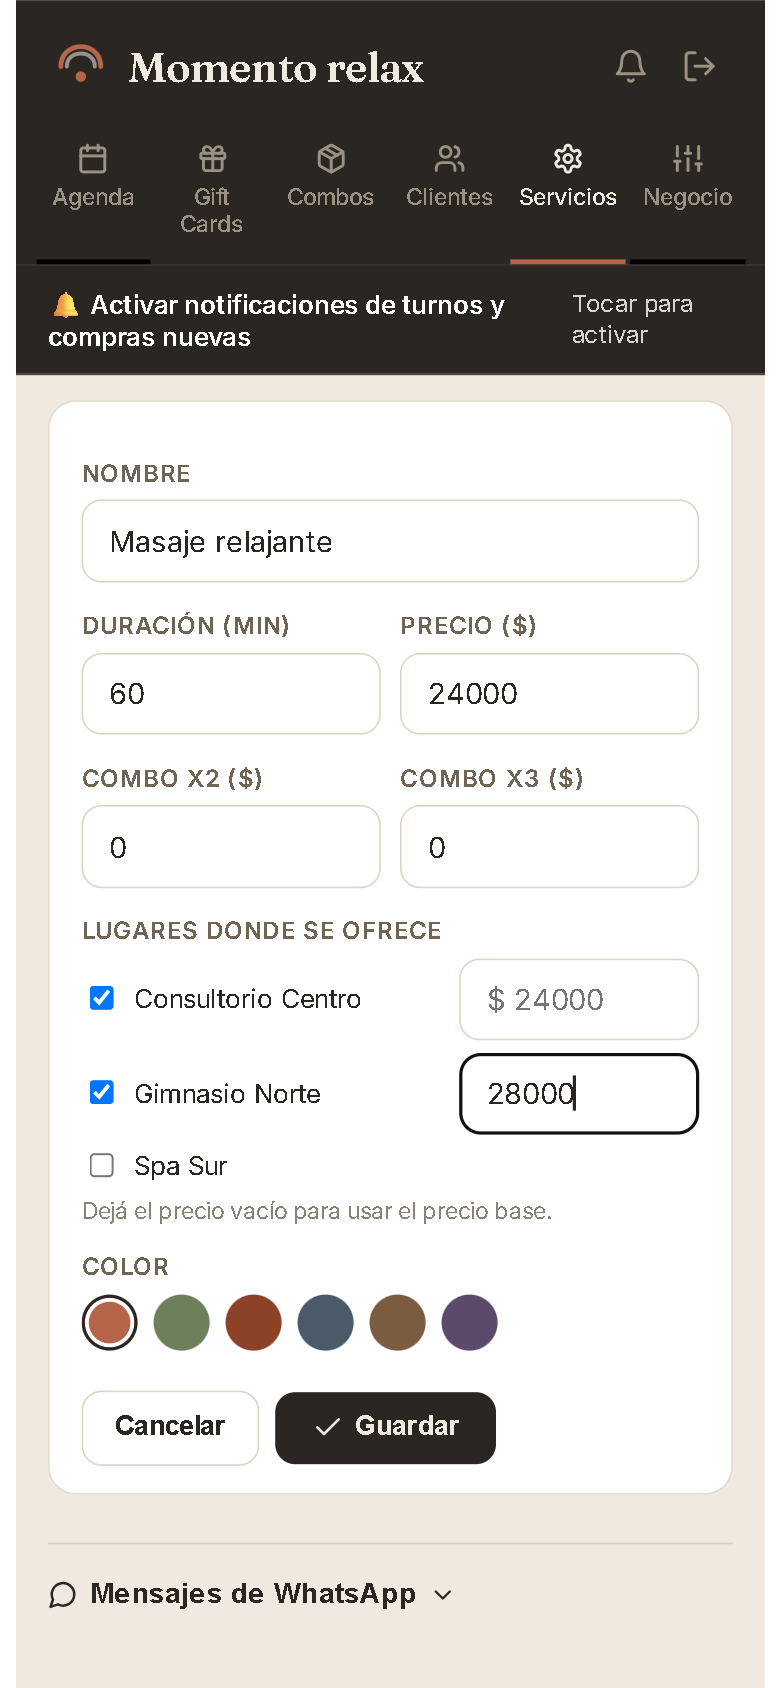
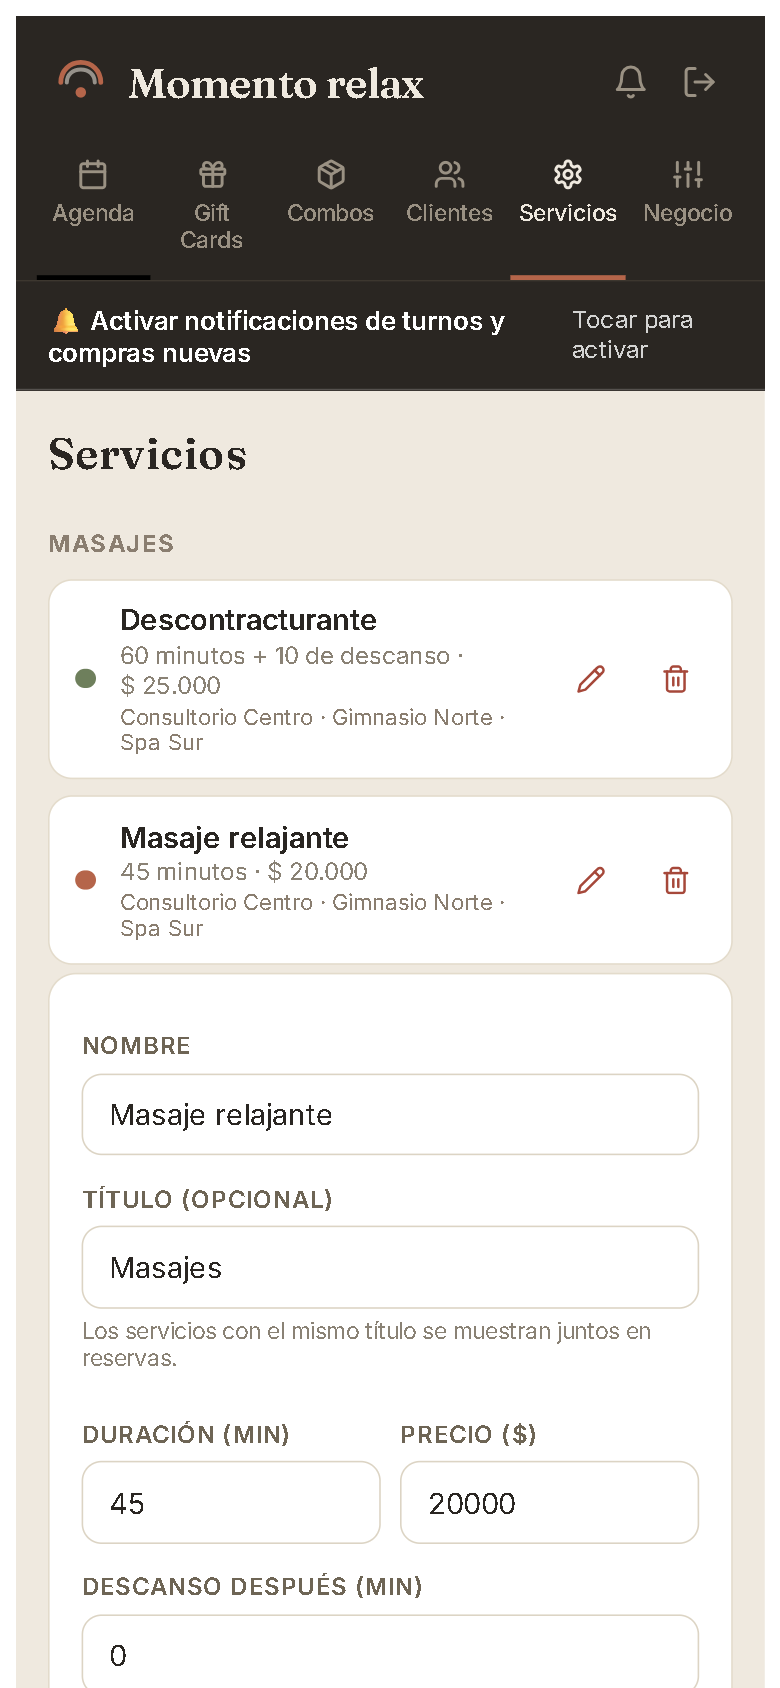
docs: captura nueva de servicios con títulos en la guía

diff --git a/cupo-landing/guia.html b/cupo-landing/guia.html
@@ -161,7 +161,7 @@
             <li><b>Lugares donde se ofrece</b>: destildá los lugares donde no lo hacés. Si en algún lugar cobrás distinto, escribí ese precio al lado; vacío usa el precio base.</li>
           </ul>
         </div>
-        <figure><div class="phone"><img src="img/05-servicio.png" alt="Formulario de servicio con precio distinto en un lugar" loading="lazy"></div></figure>
+        <figure><div class="phone"><img src="img/05-servicio.png" alt="Servicios agrupados por título y formulario de servicio con el campo Título" loading="lazy"></div></figure>
       </li>
 
       <li class="item">
